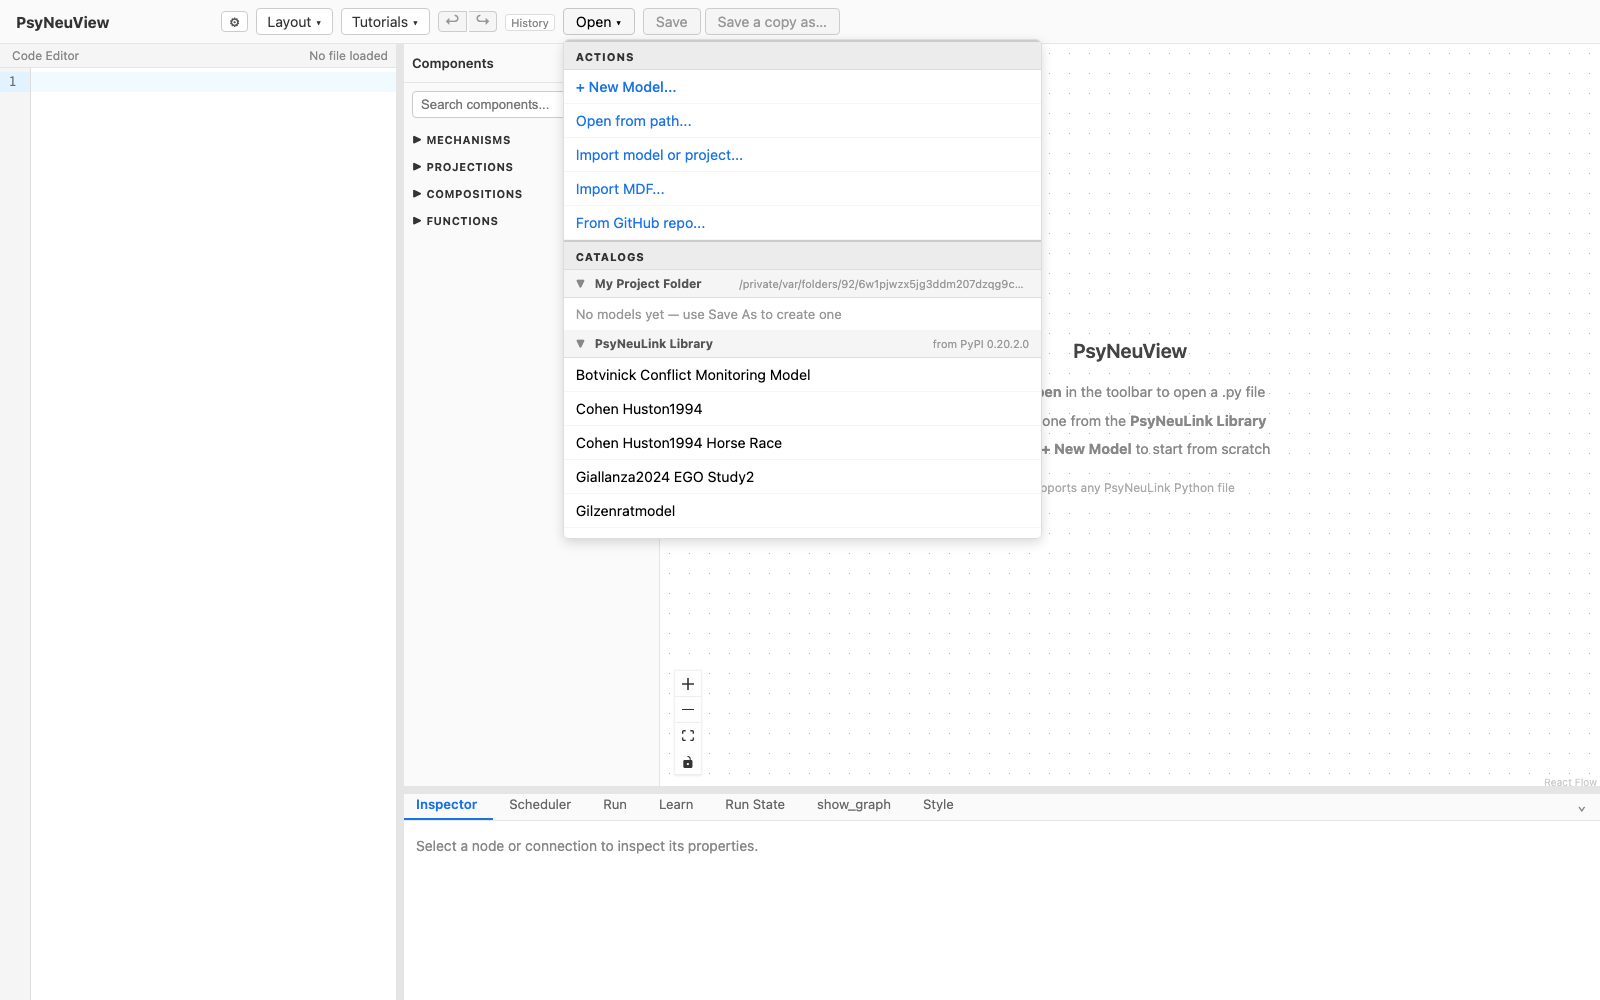
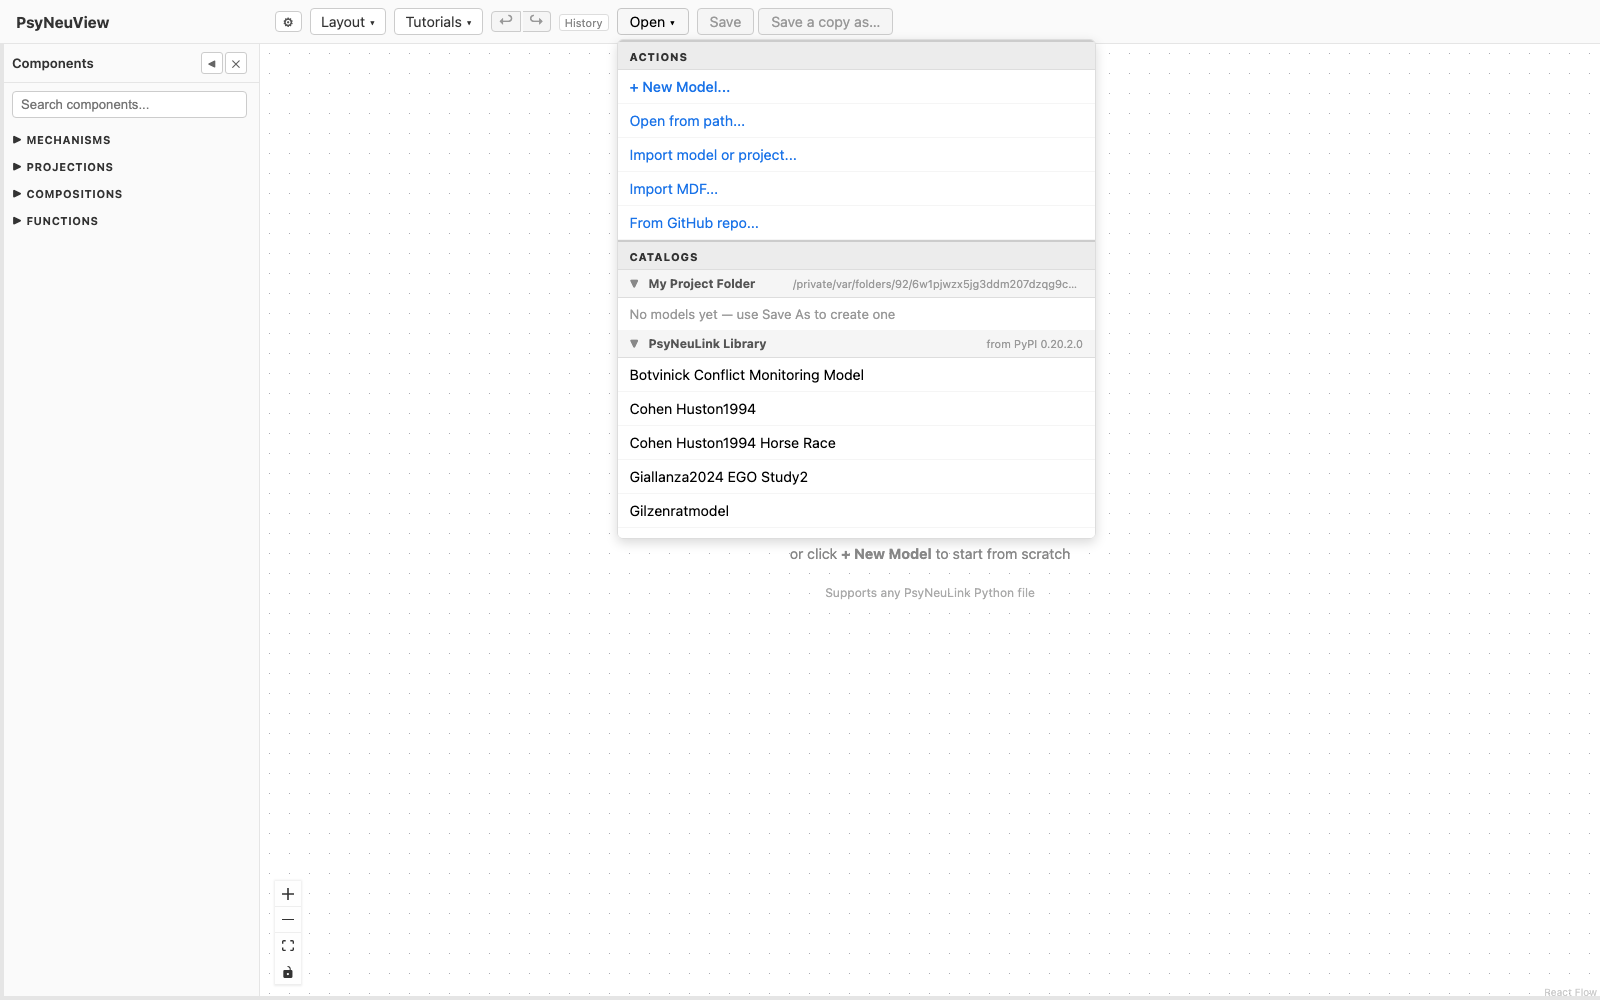
Tutorial docs: the window opens with the canvas alone, and how to bring the panels in
The loading tutorial's first-launch screenshot is taken from the real
default now, so the picture matches a new install; the introduction names
each panel's key and where the keys can be changed.

Refs #189, #191

diff --git a/frontend/e2e/tutorials/loading.tutorial.spec.ts b/frontend/e2e/tutorials/loading.tutorial.spec.ts
@@ -22,7 +22,7 @@
 // time, so this spec's isolation was being supplied by a product bug; now that
 // reopening preserves edits, it has to reset for itself. The fixture resets
 // *before* each test, so it belongs on the spec that needs the clean slate.
-import { mutatingTest as test, expect, canvasNode } from "../test-base";
+import { mutatingTest as test, expect, canvasNode, LAYOUT_BOTTOM_VISIBLE_KEY, LAYOUT_CODE_VISIBLE_KEY } from "../test-base";
 import { fileURLToPath } from "url";
 import path from "path";
 import { mkdirSync } from "fs";
@@ -51,6 +51,16 @@ async function openModelMenu(page: import("@playwright/test").Page) {
 
 test.describe("Tutorial: Loading a model", () => {
   test("the Open menu offers every model source", async ({ page }) => {
+    // The first-launch picture shows the window as it really opens: the
+    // graph alone (#189). The shared setup turns the other panels on for the
+    // rest of the suite, so this test turns them off again.
+    await page.addInitScript(
+      ([code, bottom]) => {
+        localStorage.setItem(code, "false");
+        localStorage.setItem(bottom, "false");
+      },
+      [LAYOUT_CODE_VISIBLE_KEY, LAYOUT_BOTTOM_VISIBLE_KEY] as const,
+    );
     await page.goto("/");
     await page.screenshot({ path: shot("01-initial.png") });
 

diff --git a/docs/introduction.md b/docs/introduction.md
@@ -72,6 +72,16 @@ you can look at a working model before building one.
 | **Trace bar** | Step through a completed run one execution step at a time. |
 | **Run State** | What every node held at the step you are looking at. |
 
+The window opens with the canvas alone. The **Layout** menu brings the others
+in, and so does a key each: ⌘2 for the code editor, ⌘3 for the Inspector and
+the other bottom tabs (Run, Learn, Run State, Scheduler), ⌘4 for the
+Components panel, and ⌘1 for the canvas itself while another panel is showing
+(Ctrl in place of ⌘ outside a Mac). The keys are listed under Settings ▸
+Keyboard shortcuts, where they can be changed; a browser keeps ⌘1 to ⌘9 for
+its own tabs, so there the Layout menu is the way. Whatever you choose is
+remembered. A guided walkthrough shows every panel while it runs and puts your
+layout back afterwards.
+
 ## Where to go next
 
 - **Want to try it?** [Loading a model](tutorials/01-loading-a-model.md) starts

diff --git a/docs/tutorials/01-loading-a-model.md b/docs/tutorials/01-loading-a-model.md
@@ -14,7 +14,9 @@ How to get a PsyNeuLink model onto the PsyNeuView canvas.
 ## 1. Open the app
 
 When PsyNeuView starts with no model, the canvas is empty and prompts you to
-load one.
+load one. Only the canvas shows at first: the code editor and the Inspector
+are a key away (⌘2 and ⌘3; Ctrl outside a Mac) or in the **Layout** menu, and
+the later tutorials bring them in as they need them.
 
 ![PsyNeuView on first launch, with an empty canvas](assets/loading/01-initial.png)
 
